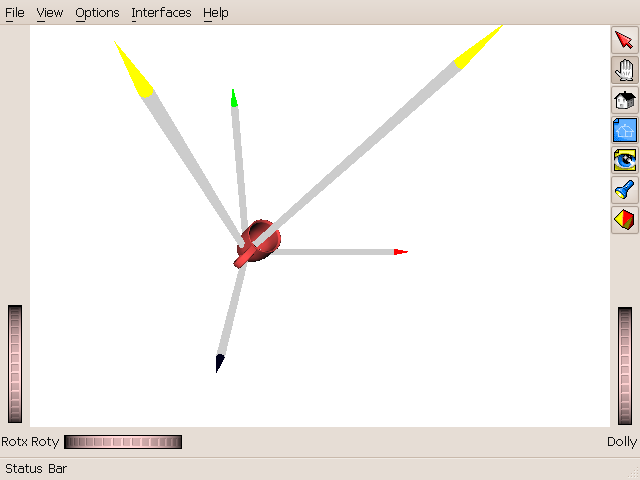
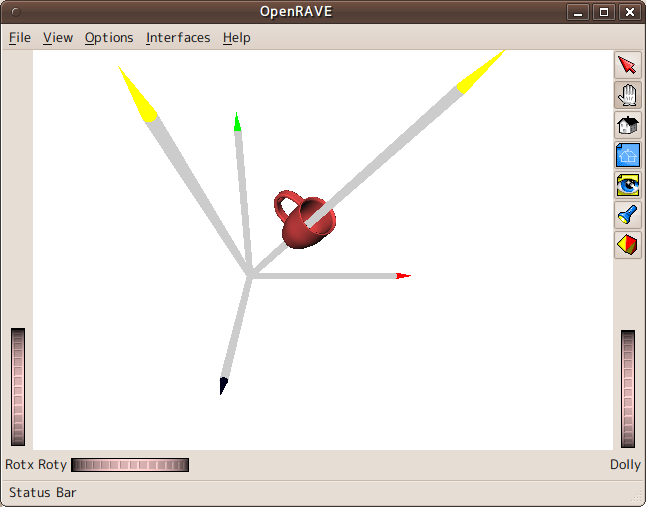
modified tutorial_003 and added tutorial_004

Changed region(s): [[0.0, 0.0, 1.0, 1.0], [0.3438, 0.1875, 0.375, 0.2812]]

diff --git a/python/examples/tutorial_004.py b/python/examples/tutorial_004.py
@@ -12,7 +12,7 @@
 # WITHOUT WARRANTIES OR CONDITIONS OF ANY KIND, either express or implied.
 # See the License for the specific language governing permissions and
 # limitations under the License.
-"""環境に読み込んだ物体の回転（回転行列）
+"""環境に読み込んだ物体の回転（クォータニオン）
 
 .. contents::
 
@@ -24,7 +24,7 @@
 
 .. code-block:: bash
 
-  openrave.py --example tutorial_003
+  openrave.py --example tutorial_004
 
 内容説明
 ========
@@ -60,53 +60,58 @@
 .. code-block:: python
 
   #!/usr/bin/env python
-  from openravepy import Environment, rotationMatrixFromAxisAngle, axisAngleFromRotationMatrix, matrixFromAxisAngle
-  from numpy import eye, dot, pi
+  from openravepy import Environment, poseFromMatrix, quatFromAxisAngle, axisAngleFromQuat, quatRotate, quatMult, poseMult
+  from numpy import pi, r_
   env = Environment()
   env.SetViewer('qtcoin')
   body = env.ReadKinBodyXMLFile(filename='data/mug2.kinbody.xml')
   env.AddKinBody(body)
-  body.SetTransform(eye(4))
-  tran = body.GetTransform()
+  body.SetTransform([1,0,0,0,0,0,0])
+  pose = poseFromMatrix(body.GetTransform())
   handles=[]
   handles.append(env.drawarrow(p1=[0.0,0.0,0.0],p2=[0.5,0.0,0.0],linewidth=0.01,color=[1.0,0.0,0.0]))
   handles.append(env.drawarrow(p1=[0.0,0.0,0.0],p2=[0.0,0.5,0.0],linewidth=0.01,color=[0.0,1.0,0.0]))
   handles.append(env.drawarrow(p1=[0.0,0.0,0.0],p2=[0.0,0.0,0.5],linewidth=0.01,color=[0.0,0.0,0.1]))
   deg = raw_input('X軸の回転角度を入力して下さい．[degree] X = ')
-  rot_mat = rotationMatrixFromAxisAngle([1,0,0],float(deg)*pi/180.0)
-  print 'AxisAngle = ',axisAngleFromRotationMatrix(rot_mat)
-  tran[0:3,0:3] = dot(rot_mat, tran[0:3,0:3])
-  body.SetTransform(tran)
-  P1 = dot(rot_mat, [0,0,1])
+  rot_quat = quatFromAxisAngle([1,0,0],float(deg)*pi/180.0)
+  print 'AxisAngle = ',axisAngleFromQuat(rot_quat)
+  pose[0:4] = quatMult(rot_quat, pose[0:4])
+  body.SetTransform(pose)
+  P1 = quatRotate(rot_quat, [0,0,1])
   handles.append(env.drawarrow([0.0,0.0,0.0],P1,linewidth=0.01,color=[1.0,1.0,0.0]))
   deg = raw_input('Y軸の回転角度を入力して下さい．[degree] Y = ')
-  rot_mat = rotationMatrixFromAxisAngle([0,1,0],float(deg)*pi/180.0)
-  print 'AxisAngle = ',axisAngleFromRotationMatrix(rot_mat)
-  tran[0:3,0:3] = dot(rot_mat, tran[0:3,0:3])
-  body.SetTransform(tran)
-  P2 = dot(rot_mat, P1)
+  rot_quat = quatFromAxisAngle([0,1,0],float(deg)*pi/180.0)
+  print 'AxisAngle = ',axisAngleFromQuat(rot_quat)
+  pose[0:4] = quatMult(rot_quat, pose[0:4])
+  body.SetTransform(pose)
+  P2 = quatRotate(rot_quat, P1)
   handles.append(env.drawarrow([0.0,0.0,0.0],P2,linewidth=0.01,color=[1.0,1.0,0.0]))
   while True:
       raw_input('キーを押すと回転しながら移動します．')
-      Tdelta = matrixFromAxisAngle ([0,0,0.5])
-      Tdelta[2,3] = 0.01
-      tran = dot(tran, Tdelta)
-      body.SetTransform(tran)
+      posedelta = r_[quatFromAxisAngle([0,0,0.5]), 0, 0, 0.01]
+      pose=poseMult(pose, posedelta)
+      body.SetTransform(pose)
 
 解説
 ------------------------------------
 
 .. code-block:: python
 
-  from openravepy import Environment, rotationMatrixFromAxisAngle, axisAngleFromRotationMatrix, matrixFromAxisAngle
+  from openravepy import Environment, poseFromMatrix, quatFromAxisAngle, axisAngleFromQuat, quatRotate, quatMult, poseMult
                                       
-- openravepyから `Environment` , `rotationMatrixFromAxisAngle` , `axisAngleFromRotationMatrix` ,  `matrixFromAxisAngle` のモジュールを読み込んでいます．
+- openravepyから `Environment` , `poseFromMatrix` , `quatFromAxisAngle` , `axisAngleFromQuat` , `quatRotate` , `quatMult` , `poseMult` のモジュールを読み込んでいます．
 
 .. code-block:: python
 
-  from numpy import eye, dot, pi
+  from numpy import pi, r_
 
 - numpyから必要なモジュールを読み込んでいます．
+
+.. code-block:: python
+
+  pose = poseFromMatrix(body.GetTransform())
+
+- `poseFromMatrix` を使って変換行列からposeを求めています．
 
 .. code-block:: python
 
@@ -125,39 +130,39 @@
 
 .. code-block:: python
 
-  rot_mat = rotationMatrixFromAxisAngle([1,0,0],float(deg)*pi/180.0)
+  rot_quat = quatFromAxisAngle([1,0,0],float(deg)*pi/180.0)
 
-- `rotationMatrixFromAxisAngle` を使ってX軸で入力された角度（deg）回転する回転行列rot_matを作成しています．\n
+- `quatFromAxisAngle` を使ってX軸で入力された角度（deg）回転するクォータニオンrot_quatを作成しています．\n
   AxisAngleは例のように([単位ベクトル] , 角度(rad))でも指定することが可能です．
 
 .. code-block:: python
 
-  print 'AxisAngle = ',axisAngleFromRotationMatrix(rot_mat)
+  print 'AxisAngle = ',axisAngleFromQuat(rot_quat)
 
--  `axisAngleFromRotationMatrix` を使って実際のAxisAngleの値（3列のベクトル値）を出力します．
-
-.. code-block:: python
-
-  tran[0:3,0:3] = dot(rot_mat, tran[0:3,0:3])
-  body.SetTransform(tran)
-
-- 変換行列(tran)から現在の回転行列を切り出し，dot関数で回転行列(rot_mat)の掛け算をして，それを再び変換行列に代入して新たな姿勢をセットしています．
+-  `axisAngleFromQuat` を使って実際のAxisAngleの値（3列のベクトル値）を出力します．
 
 .. code-block:: python
 
-  P1 = dot(rot_mat, [0,0,1])
+  pose[0:4] = quatMult(rot_quat, pose[0:4])
+  body.SetTransform(pose)
+
+- poseから現在のクォータニオンを切り出し， `quatMult` 関数でクォータニオン(rot_quat)の掛け算をして，それを再びクォータニオンに代入して新たな姿勢をセットしています．
+
+.. code-block:: python
+
+  P1 = quatRotate(rot_quat, [0,0,1])
   handles.append(env.drawarrow([0.0,0.0,0.0],P1,linewidth=0.01,color=[1.0,1.0,0.0]))
 
-- カップの上方向（Z軸方向）を回転させて，黄色い矢印を表示させています．\n
+- カップの上方向（Z軸方向）を `quatRotate` で回転させて，黄色い矢印を表示させています．\n
 
 .. code-block:: python
 
   deg = raw_input('Y軸の回転角度を入力して下さい．[degree] Y = ')
-  rot_mat = rotationMatrixFromAxisAngle([0,1,0],float(deg)*pi/180.0)
-  print 'AxisAngle = ',axisAngleFromRotationMatrix(rot_mat)
-  tran[0:3,0:3] = dot(rot_mat, tran[0:3,0:3])
-  body.SetTransform(tran)
-  P2 = dot(rot_mat, P1)
+  rot_quat = quatFromAxisAngle([0,1,0],float(deg)*pi/180.0)
+  print 'AxisAngle = ',axisAngleFromQuat(rot_quat)
+  pose[0:4] = quatMult(rot_quat, pose[0:4])
+  body.SetTransform(pose)
+  P2 = quatRotate(rot_quat, P1)
   handles.append(env.drawarrow([0.0,0.0,0.0],P2,linewidth=0.01,color=[1.0,1.0,0.0]))
 
 - Y軸の回転に関しても同様に行います．
@@ -166,31 +171,30 @@
 
   while True:
       raw_input('キーを押すと回転しながら移動します．')
-      Tdelta = matrixFromAxisAngle ([0,0,0.5])
-      Tdelta[2,3] = 0.01
-      tran = dot(tran, Tdelta)
-      body.SetTransform(tran)
+      posedelta = r_[quatFromAxisAngle([0,0,0.5]), 0, 0, 0.01]
+      pose=poseMult(pose, posedelta)
+      body.SetTransform(pose)
 
-- Tdelta（Z軸の回転と移動）を作成し，dot関数で現在の変換行列tranとの掛け算をして，それを再びtranに代入して新たな姿勢をセットしています．\n
+- posedelta（Z軸の回転と移動）を作成し， `poseMult` で現在のposeとの掛け算をして，それを再びposeに代入して新たな姿勢をセットしています．\n
   これによりキーが入力される度に，カップの回転軸（黄色い矢印）で回転しながら移動します．\n
 
 関連関数
 --------------------------------------
 
- `Environment.drawarrow` , `rotationMatrixFromAxisAngle` , `axisAngleFromRotationMatrix` , `matrixFromAxisAngle` , `matrixFromPose` , `matrixFromQuat` , `quatFromRotationMatrix` , `rotationMatrixFromQuat`
+ `poseFromMatrix` , `quatFromAxisAngle` , `axisAngleFromQuat` , `quatRotate` , `quatMult` , `poseMult` , `matrixFromPose` , `matrixFromQuat` , `quatFromRotationMatrix` , `rotationMatrixFromQuat`
 
 関連チュートリアル
 --------------------------------------
 
-- `examples.tutorial_004` - 環境に読み込んだ物体の回転（クォータニオン）
+- `examples.tutorial_003` - 環境に読み込んだ物体の回転（回転行列）
 
 """
 from __future__ import with_statement # for python 2.5
 __author__ = 'Makoto Furukawa'
 __copyright__ = '2010 Makoto Furukawa'
 __license__ = 'Apache License, Version 2.0'
-from openravepy import Environment, rotationMatrixFromAxisAngle, axisAngleFromRotationMatrix, matrixFromAxisAngle
-from numpy import eye, dot, pi
+from openravepy import Environment, poseFromMatrix, quatFromAxisAngle, axisAngleFromQuat, quatRotate, quatMult, poseMult
+from numpy import pi, r_
 
 def run(args=None):
     try:
@@ -198,42 +202,41 @@ def run(args=None):
         env.SetViewer('qtcoin')
         body = env.ReadKinBodyXMLFile(filename='data/mug2.kinbody.xml')
         env.AddKinBody(body)
-        body.SetTransform(eye(4))
-        tran = body.GetTransform()
-    
+        body.SetTransform([1,0,0,0,0,0,0])
+        pose = poseFromMatrix(body.GetTransform())
+
         handles=[]
         handles.append(env.drawarrow(p1=[0.0,0.0,0.0],p2=[0.5,0.0,0.0],linewidth=0.01,color=[1.0,0.0,0.0]))
         handles.append(env.drawarrow(p1=[0.0,0.0,0.0],p2=[0.0,0.5,0.0],linewidth=0.01,color=[0.0,1.0,0.0]))
         handles.append(env.drawarrow(p1=[0.0,0.0,0.0],p2=[0.0,0.0,0.5],linewidth=0.01,color=[0.0,0.0,0.1]))
-    
+
         deg = raw_input('X軸の回転角度を入力して下さい．[degree] X = ')
         if len(deg) == 0:
             deg = -45
-        rot_mat = rotationMatrixFromAxisAngle([1,0,0],float(deg)*pi/180.0)
-        print 'AxisAngle = ',axisAngleFromRotationMatrix(rot_mat)
-        tran[0:3,0:3] = dot(rot_mat, tran[0:3,0:3])
-        body.SetTransform(tran)
-
-        P1 = dot(rot_mat, [0,0,1])
+        rot_quat = quatFromAxisAngle([1,0,0],float(deg)*pi/180.0)
+        print 'AxisAngle = ',axisAngleFromQuat(rot_quat)
+        pose[0:4] = quatMult(rot_quat, pose[0:4])
+        body.SetTransform(pose)
+        
+        P1 = quatRotate(rot_quat, [0,0,1])
         handles.append(env.drawarrow([0.0,0.0,0.0],P1,linewidth=0.01,color=[1.0,1.0,0.0]))
 
         deg = raw_input('Y軸の回転角度を入力して下さい．[degree] Y = ')
         if len(deg) == 0:
             deg = 45
-        rot_mat = rotationMatrixFromAxisAngle([0,1,0],float(deg)*pi/180.0)
-        print 'AxisAngle = ',axisAngleFromRotationMatrix(rot_mat)
-        tran[0:3,0:3] = dot(rot_mat, tran[0:3,0:3])
-        body.SetTransform(tran)
+        rot_quat = quatFromAxisAngle([0,1,0],float(deg)*pi/180.0)
+        print 'AxisAngle = ',axisAngleFromQuat(rot_quat)
+        pose[0:4] = quatMult(rot_quat, pose[0:4])
+        body.SetTransform(pose)
 
-        P2 = dot(rot_mat, P1)
+        P2 = quatRotate(rot_quat, P1)
         handles.append(env.drawarrow([0.0,0.0,0.0],P2,linewidth=0.01,color=[1.0,1.0,0.0]))
 
         while True:
             raw_input('キーを押すと回転しながら移動します．')
-            Tdelta = matrixFromAxisAngle ([0,0,0.5])
-            Tdelta[2,3] = 0.01
-            tran = dot(tran, Tdelta)
-            body.SetTransform(tran)
+            posedelta = r_[quatFromAxisAngle([0,0,0.5]), 0, 0, 0.01]
+            pose=poseMult(pose, posedelta)
+            body.SetTransform(pose)
 
     finally:
         env.Destroy()

diff --git a/python/examples/__init__.py b/python/examples/__init__.py
@@ -17,4 +17,5 @@ import visibilityplanning
 import tutorial_001
 import tutorial_002
 import tutorial_003
+import tutorial_004
 import tutorial_ik
